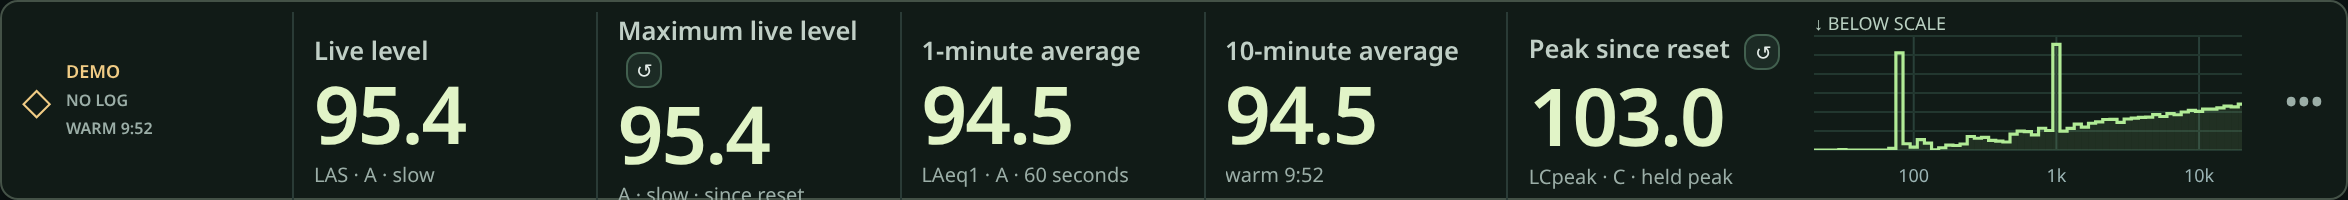
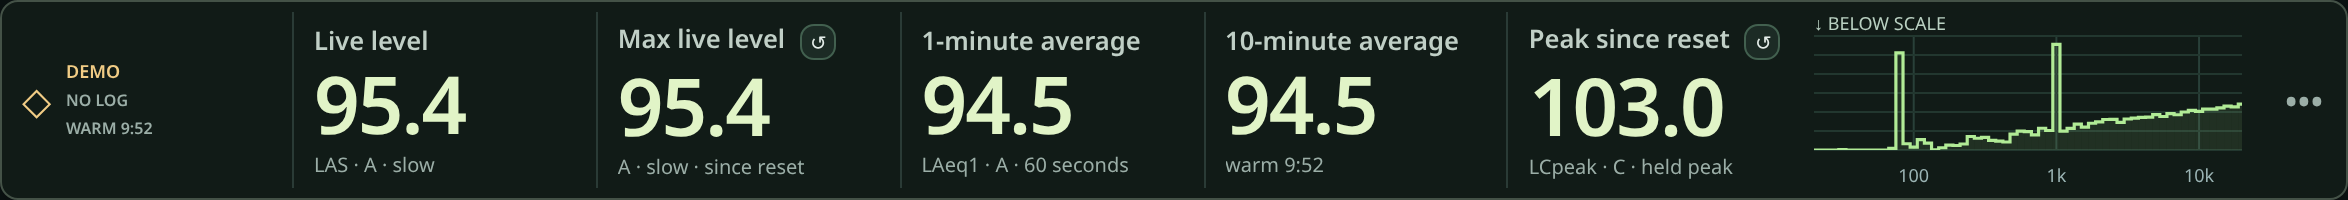
Strip: shorten 'Maximum live level' to 'Max live level' so the reset button does not wrap; refresh screenshot

diff --git a/web/src/App.tsx b/web/src/App.tsx
@@ -25,7 +25,7 @@ const metrics: { key: keyof Levels; label: string; detail: string }[] = [
   { key: "lasDb", label: "Live level", detail: "LAS · A · slow" },
   {
     key: "lasMaxDb",
-    label: "Maximum live level",
+    label: "Max live level",
     detail: "A · slow · since reset",
   },
   {

diff --git a/docs/HANDOFF.md b/docs/HANDOFF.md
@@ -36,7 +36,7 @@ including in a shallow viewport. iPadOS owns external window placement.
 
 ## Strip metrics
 
-Left to right the strip shows Live level (`LAS`), Maximum live level (`lasMaxDb`),
+Left to right the strip shows Live level (`LAS`), Max live level (`lasMaxDb`),
 1-minute average (`LAeq1`), 10-minute average (`LAeq10`) and Peak since reset
 (`LCpeak`), with the technical names retained beneath the friendly labels.
 `lasMaxDb` is the highest A-weighted Slow value evaluated on the service's 100 ms
